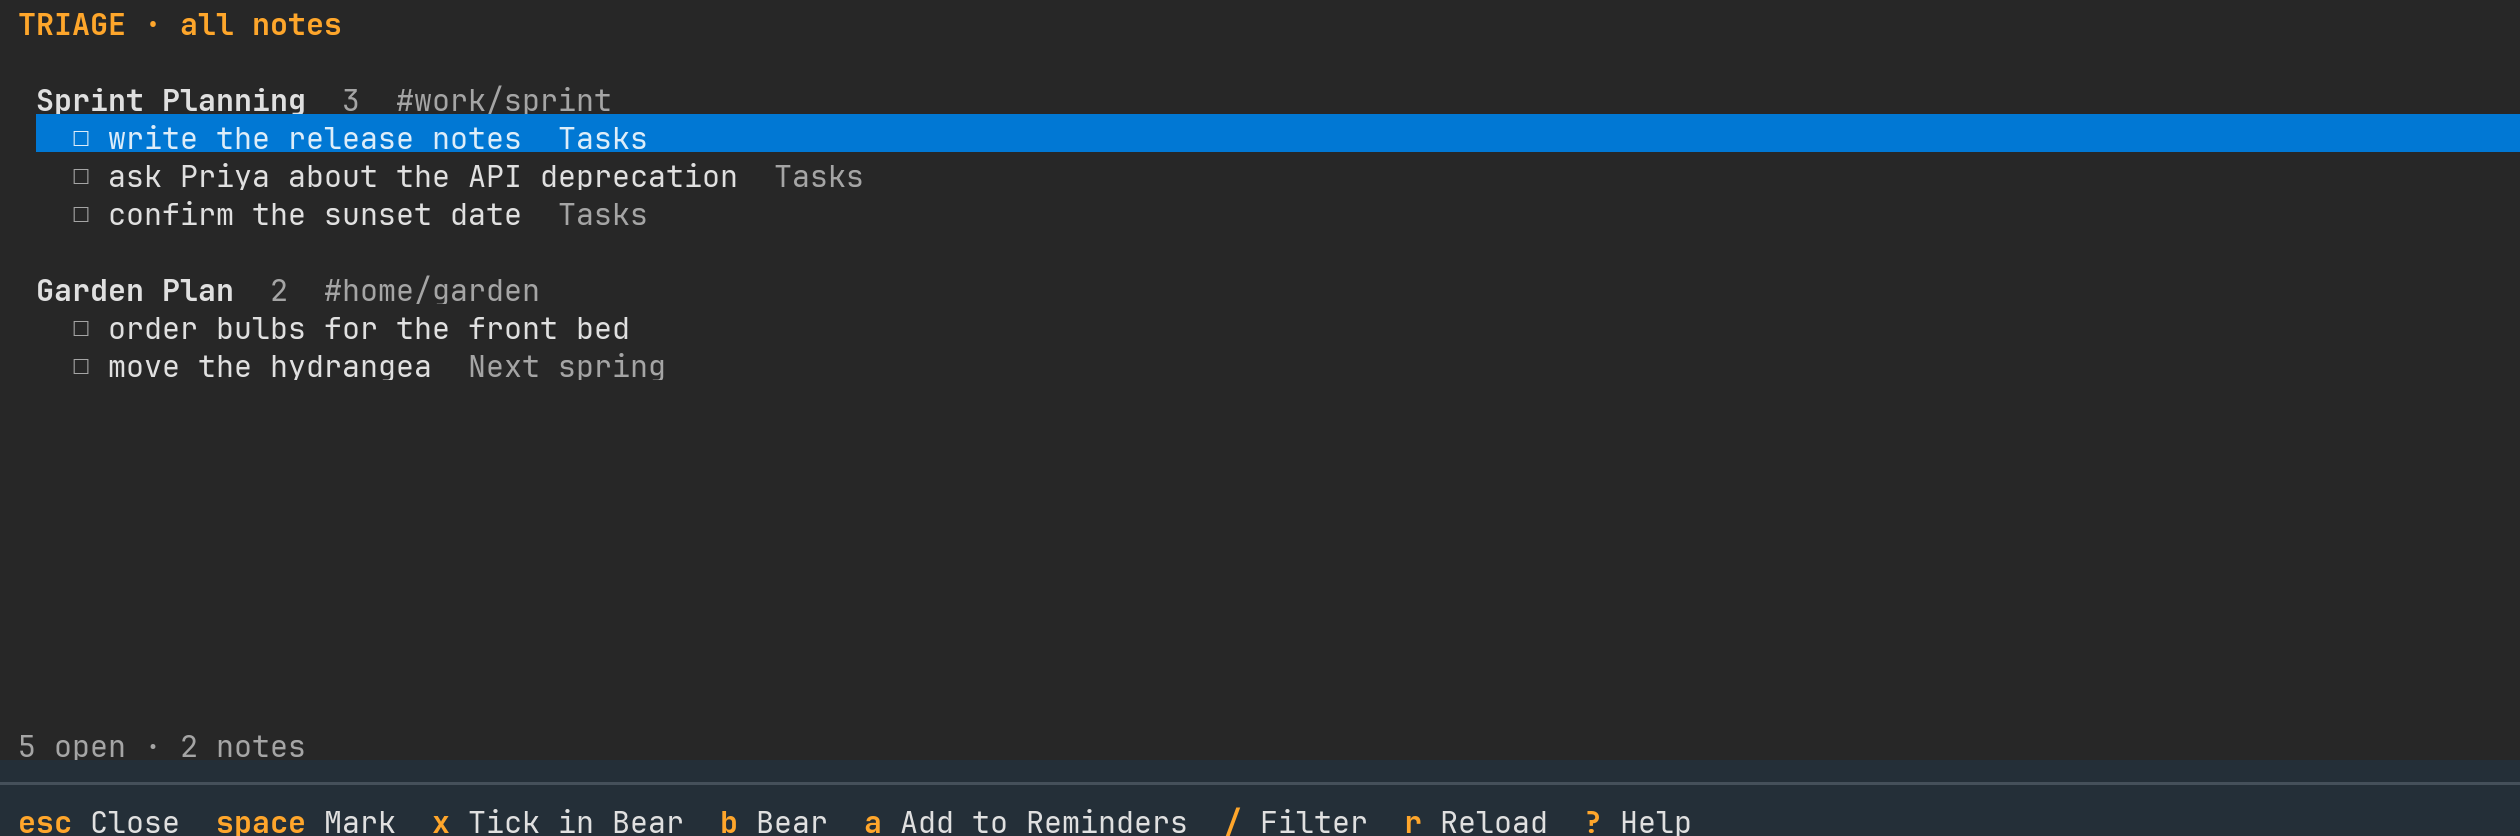
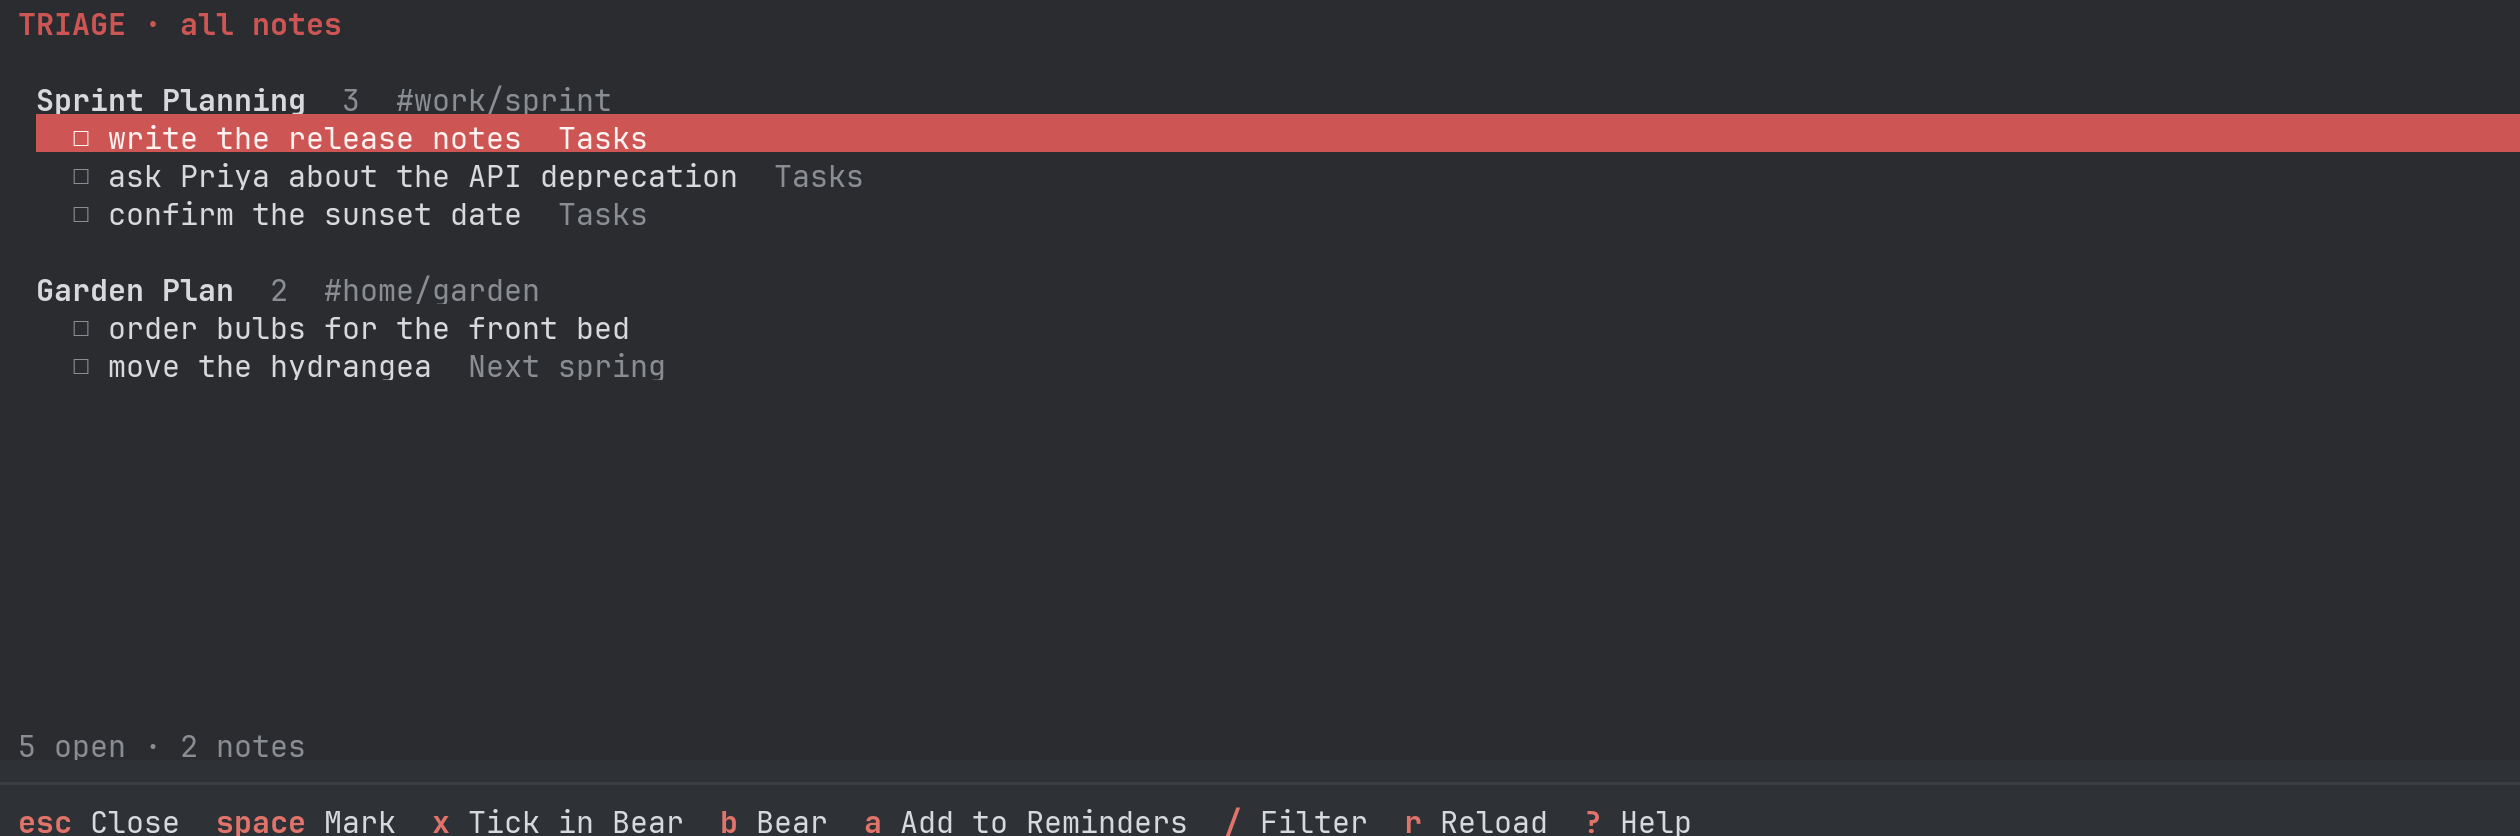
red-graphite-dark is the default theme
Bjorn is a front end for Bear, so it should open looking like Bear rather
than like the Textual palette it started from. textual-dark stays under
its own name.

THEMES is ordered so the default is index 0: ACTIVE starts at zero and
anything that draws before the config is read takes that entry. A test
now pins the two together. Both README screenshots are redrawn in the new
default.

diff --git a/src/ui/theme.rs b/src/ui/theme.rs
@@ -1,10 +1,11 @@
 //! The palette.
 //!
-//! One `Theme` is a flat table of true colours. `textual-dark` is the original
-//! palette, a dark grey page with blue and amber accents. `red-graphite` and
-//! `red-graphite-dark` are Bear's Red Graphite: graphite chrome, one coral red
-//! (`#CD5654`, sampled from Bear) for every accent. The rest, in `palettes`,
-//! are generated from Bear's own theme files by `tools/bear_theme.py`.
+//! One `Theme` is a flat table of true colours. `red-graphite-dark`, the
+//! default, and `red-graphite` are Bear's Red Graphite: graphite chrome, one
+//! coral red (`#CD5654`, sampled from Bear) for every accent. `textual-dark`
+//! is the original palette, a dark grey page with blue and amber accents. The
+//! rest, in `palettes`, are generated from Bear's own theme files by
+//! `tools/bear_theme.py`.
 //!
 //! The active theme is a process-wide index into `THEMES`, set once from the
 //! config at startup, so drawing code can read it without threading a
@@ -250,9 +251,9 @@ pub const RED_GRAPHITE_DARK: Theme = Theme {
 };
 
 pub const THEMES: &[Theme] = &[
-    TEXTUAL_DARK,
-    RED_GRAPHITE,
     RED_GRAPHITE_DARK,
+    RED_GRAPHITE,
+    TEXTUAL_DARK,
     palettes::ACADEMIA,
     palettes::ATOM,
     palettes::AYU,
@@ -293,7 +294,9 @@ pub const THEMES: &[Theme] = &[
     palettes::TOOTHPASTE,
 ];
 
-pub const DEFAULT_THEME: &str = "textual-dark";
+/// Must be `THEMES[0]`: `ACTIVE` starts at zero, so anything that draws
+/// before the config is read gets this one.
+pub const DEFAULT_THEME: &str = "red-graphite-dark";
 
 static ACTIVE: AtomicUsize = AtomicUsize::new(0);
 
@@ -529,6 +532,12 @@ mod tests {
         );
         assert!(lookup("mauve").is_none());
         assert_eq!(names().count(), THEMES.len());
+    }
+
+    #[test]
+    fn the_default_is_the_theme_drawn_before_the_config_is_read() {
+        assert_eq!(THEMES[0].name, DEFAULT_THEME);
+        assert_eq!(current().name, DEFAULT_THEME);
     }
 
     #[test]

diff --git a/README.md b/README.md
@@ -110,7 +110,7 @@ poll_seconds = 5              # 0 disables the background refresh
 workspace = "work"            # start scoped to this tag
 bearcli = "/usr/local/bin/bearcli"  # optional; default searches PATH, then Bear.app
 icon_style = "auto"           # auto | nerd | emoji | lucide | none
-theme = "textual-dark"        # see Themes below; `bjorn --list-themes` prints the names
+theme = "red-graphite-dark"   # see Themes below; `bjorn --list-themes` prints the names
 
 [icons]                       # top-level tag -> Lucide icon name, or emoji:<glyph>
 tech = "terminal"
@@ -146,9 +146,9 @@ command line (`--list-themes` prints them):
 
 | Name | |
 |---|---|
-| `textual-dark` | the default: a dark grey page with blue accents |
-| `red-graphite` | Bear's Red Graphite: the graphite sidebar beside a white page, coral red (`#CD5654`) on the focused column, the cursor, the bullets, the links and the tags |
-| `red-graphite-dark` | the same red over Bear's graphite, for a dark terminal |
+| `red-graphite-dark` | the default: Bear's Red Graphite over graphite, coral red (`#CD5654`) on the focused column, the cursor, the bullets, the links and the tags |
+| `red-graphite` | the same red in Bear's light Red Graphite: a graphite sidebar beside a white page |
+| `textual-dark` | the original palette: a dark grey page with blue and amber accents |
 
 Every other theme Bear ships is here too, under its Bear name in lower case
 with hyphens for spaces:

diff --git a/docs/ROADMAP.md b/docs/ROADMAP.md
@@ -36,9 +36,9 @@ plan lives in `docs/plans/bjorn-rust.md`.
   (918 notes: 1197 ms to the first frame, 440 ms once the cache is there). The
   Python Bjorn writes the same file in the same shape, so either warms the
   other.
-- Themes: `theme` in the config, or `--theme`. `textual-dark` matches the
-  Python build's default colour for colour; `red-graphite` and
-  `red-graphite-dark` are Bear's Red Graphite.
+- Themes: `theme` in the config, or `--theme`. `red-graphite-dark` is the
+  default; every theme Bear ships is converted from its own theme files by
+  `tools/bear_theme.py`.
 
 ## Closed by design in the Rust port
 
